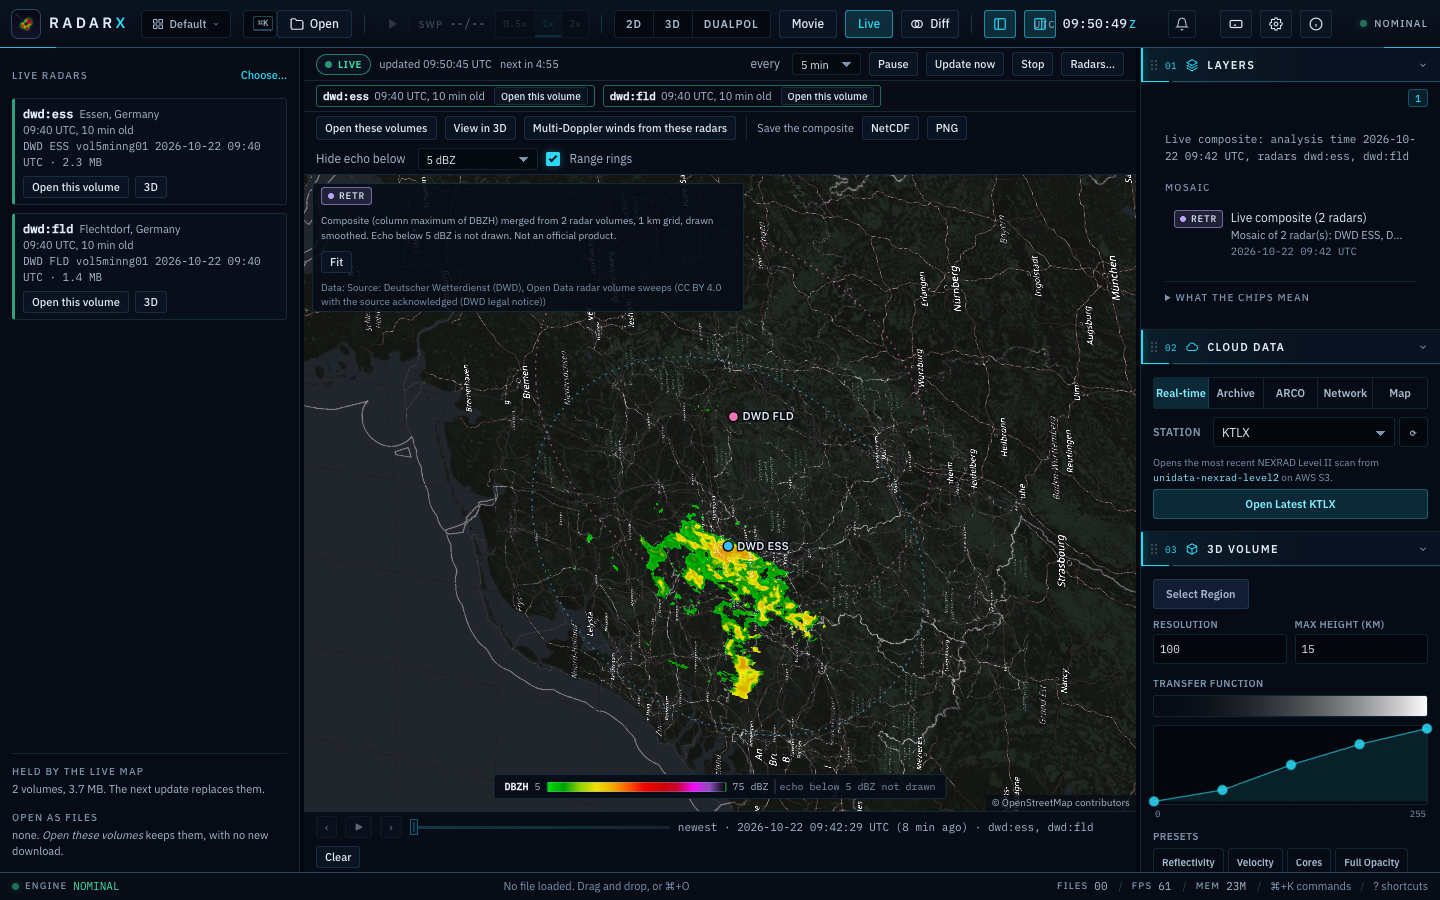
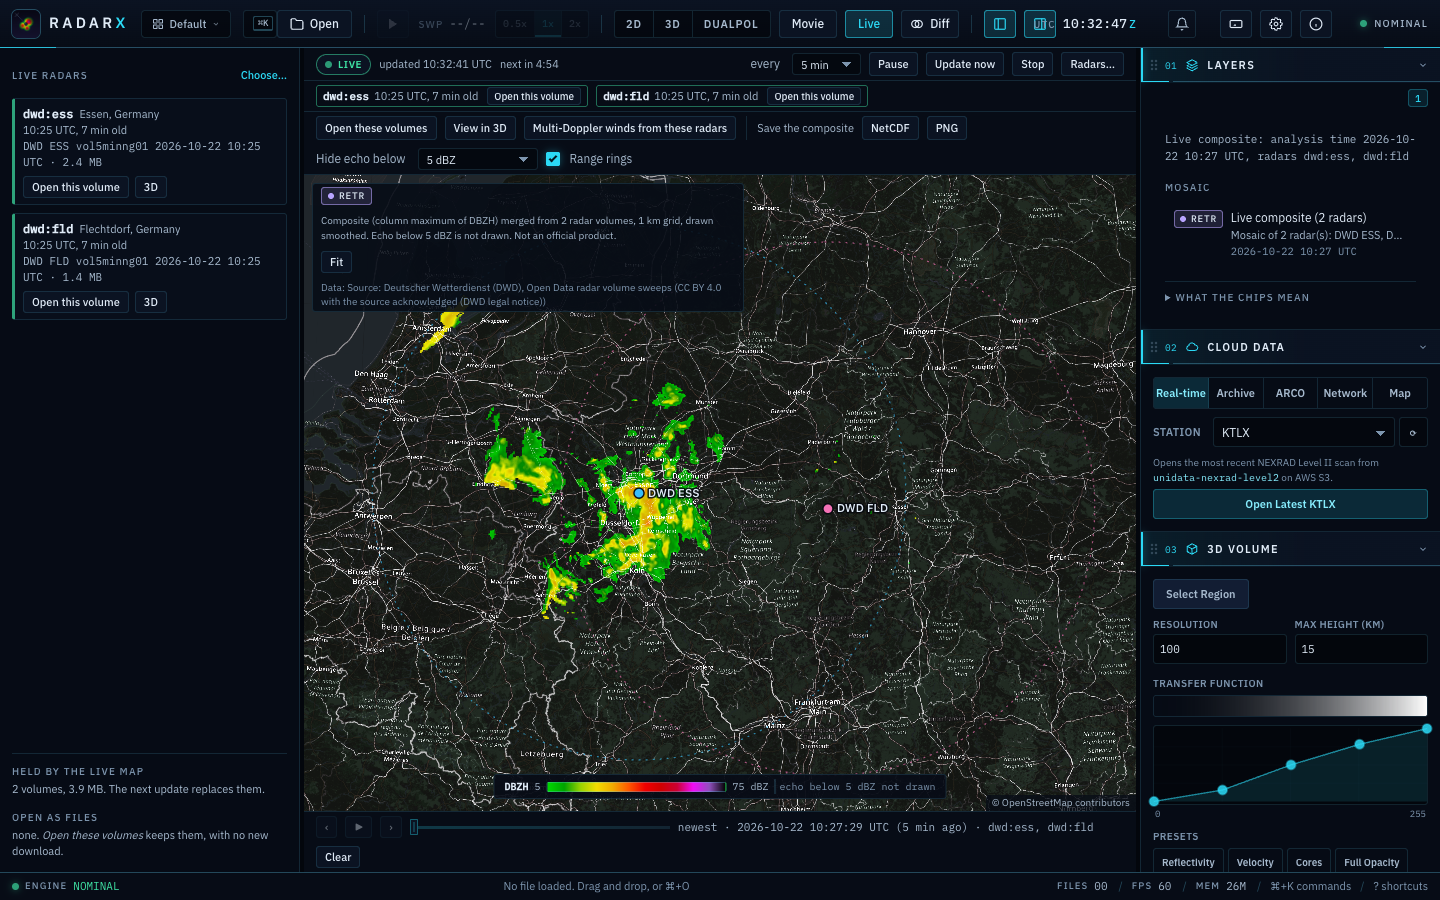
live map: centre the projection on the radars shown, never on a default over the USA
The map is an azimuthal projection, exact at its centre. The centre fell back to Oklahoma while the DWD radars' positions were still loading and was never moved, so a view of Germany, 8000 km away, was rotated by about 90 degrees and its place names read sideways. The centre now comes from the frame or the radars (null until known) and is moved when it is far from what is shown. live-map-dwd.png retaken from real DWD volumes.

diff --git a/src/lib/components/LiveMapView.svelte b/src/lib/components/LiveMapView.svelte
@@ -21,7 +21,7 @@
   import { RADAR_COLORS, mosaicLayer, mosaicResult, type MosaicLayer, type GeoBounds } from '../stores/mosaic';
   import { countdownText, hhmmss, radarStatusText, stepFrame, MIN_INTERVAL_MIN, MAX_INTERVAL_MIN } from '../utils/liveLogic';
   import {
-    FLOOR_CHOICES, footprintBounds, compositeLabel, legendAtFloor, floorText, multiDopplerBlocked, engineFloor,
+    FLOOR_CHOICES, footprintBounds, mapCentre, anchorStale, compositeLabel, legendAtFloor, floorText, multiDopplerBlocked, engineFloor,
   } from '../utils/liveDisplay';
   import { latLonToPixel } from '../utils/geoProjection';
   import PanZoomMap from './PanZoomMap.svelte';
@@ -57,16 +57,18 @@
   const byId = $derived($liveSites);
   const radarSites = $derived(radarIds.map((id) => byId.get(id)).filter((x): x is NonNullable<typeof x> => !!x));
 
-  // Map centre: the frame's grid centre, else the centroid of the default radars, else the US.
-  const centre = $derived.by(() => {
-    if (frame) return { lat: (frame.grid.north + frame.grid.south) / 2, lon: (frame.grid.east + frame.grid.west) / 2 };
-    const sites = radarIds.map((id) => byId.get(id)).filter((x): x is NonNullable<typeof x> => !!x);
-    if (sites.length) return { lat: sites.reduce((a, x) => a + x.lat, 0) / sites.length, lon: sites.reduce((a, x) => a + x.lon, 0) / sites.length };
-    return { lat: 39, lon: -97 };
-  });
-  // The projection is anchored once per session on the first centre so panning stays consistent.
+  // Map centre: the middle of the composite, else of the radars; null while that is not known (the
+  // positions of the DWD radars come from the catalogue a moment after the view opens). Never a
+  // default place: the projection is only right near its centre (see mapCentre).
+  const centre = $derived(mapCentre(frame ? frameBounds(frame) : null, radarSites));
+  // The projection is centred once and kept (so panning stays consistent), and moved only when what
+  // is shown is no longer near it (another set of radars, a first frame far from the guess).
   let anchor = $state<{ lat: number; lon: number } | null>(null);
-  $effect(() => { if (!anchor && (frame || radarIds.length)) anchor = centre; });
+  $effect(() => {
+    const c = centre;
+    if (forecastOn || !c) return;
+    if (anchorStale(anchor, c)) anchor = c;
+  });
 
   // A nowcast made from these frames is drawn here instead of the observed composite, with its own
   // FORECAST label and lead slider (the observed frame is back with "Observations").
@@ -103,7 +105,6 @@
   });
 
   let fit = $state<GeoBounds | null>(null);
-  let fittedOnce = false;
   // A forecast drawn here (from a gridded file, or for a place the live map is not on) brings its own
   // map position, and the view fits it once per nowcast.
   let fittedForecast = '';
@@ -118,26 +119,21 @@
   });
   // Position the map on the radars' footprint (their range discs) as soon as the radars are known,
   // and on the composite's own box once the first frame of the session exists (not on every update:
-  // the user may have panned). A different set of radars starts again, with a new map centre.
-  let fitKey = '';
+  // the user may have panned). A different set of radars, or a moved projection centre, starts again.
+  let fitState = { key: '', anchor: '', stage: '' };
   const sessionKey = $derived((s.running ? s.stations : $liveRadars).join(','));
   $effect(() => {
     const key = sessionKey;
-    if (forecastOn || !key) return;
+    const a = anchor;
     const f = frame;
-    if (!fitKey.startsWith(`${key}|`)) {
-      fitKey = `${key}|sites`;
-      fittedOnce = false;
-      if (anchor) anchor = centre;
-    }
-    if (f && !fittedOnce) {
-      fittedOnce = true;
-      fitKey = `${key}|frame`;
-      fit = frameBounds(f);
-    } else if (!f && !fittedOnce && fitKey === `${key}|sites`) {
-      const b = footprintBounds(radarSites, LIVE_RING_KM);
-      if (b) fit = b;
-    }
+    if (forecastOn || !key || !a) return;
+    const aKey = `${a.lat.toFixed(2)},${a.lon.toFixed(2)}`;
+    const stage = f ? 'frame' : 'sites';
+    const same = fitState.key === key && fitState.anchor === aKey;
+    if (same && (fitState.stage === 'frame' || fitState.stage === stage)) return;
+    fitState = { key, anchor: aKey, stage };
+    const bounds = f ? frameBounds(f) : footprintBounds(radarSites, LIVE_RING_KM);
+    if (bounds) fit = bounds;
   });
   function frameBounds(f: LiveFrame): GeoBounds {
     return { west: f.grid.west, south: f.grid.south, east: f.grid.east, north: f.grid.north };

diff --git a/src/lib/utils/liveDisplay.ts b/src/lib/utils/liveDisplay.ts
@@ -132,6 +132,47 @@ export function footprintBounds(sites: readonly { lat: number; lon: number }[], 
   };
 }
 
+// ── What the map is centred on ─────────────────────────────────────────────────────────────
+
+export interface LatLon {
+  lat: number;
+  lon: number;
+}
+
+/**
+ * The point the map's projection is centred on: the middle of the composite's box once there is a
+ * frame, else the middle of the radars (longitudes averaged on the circle, so radars either side of
+ * the date line do not land on the far side of the world), and null while nothing is known.
+ *
+ * It is never a default place: the map is an azimuthal projection, which is exact at its centre and
+ * turns and stretches everything far from it. Centred on a default over the USA, a view of Germany
+ * 8000 km away is rotated by about 90 degrees and its place names read sideways.
+ */
+export function mapCentre(frame: Bounds | null, sites: readonly LatLon[]): LatLon | null {
+  if (frame) return { lat: (frame.north + frame.south) / 2, lon: (frame.east + frame.west) / 2 };
+  if (sites.length === 0) return null;
+  const lat = sites.reduce((n, s) => n + s.lat, 0) / sites.length;
+  const x = sites.reduce((n, s) => n + Math.cos((s.lon * Math.PI) / 180), 0);
+  const y = sites.reduce((n, s) => n + Math.sin((s.lon * Math.PI) / 180), 0);
+  return { lat, lon: (Math.atan2(y, x) * 180) / Math.PI };
+}
+
+/** Great-circle distance in km. */
+export function distanceKm(a: LatLon, b: LatLon): number {
+  const r = Math.PI / 180;
+  const h = Math.sin(((b.lat - a.lat) * r) / 2) ** 2 + Math.cos(a.lat * r) * Math.cos(b.lat * r) * Math.sin(((b.lon - a.lon) * r) / 2) ** 2;
+  return 2 * 6371.0088 * Math.asin(Math.min(1, Math.sqrt(h)));
+}
+
+/** How far the projection's centre may be from what is shown before it is moved (km). */
+export const MAX_ANCHOR_OFFSET_KM = 600;
+
+/** True when the projection's centre has to be moved to `centre` (nothing is anchored yet, or it is too far). */
+export function anchorStale(anchor: LatLon | null, centre: LatLon | null): boolean {
+  if (!centre) return false;
+  return anchor === null || distanceKm(anchor, centre) > MAX_ANCHOR_OFFSET_KM;
+}
+
 // ── Opening the held volumes ────────────────────────────────────────────────────────────────
 
 /** One volume of a `live_volumes_opened` reply. */

diff --git a/docs/changes/live-map-dwd.md b/docs/changes/live-map-dwd.md
@@ -1,2 +1,3 @@
 - **European radars on the live map:** the live map now works with two networks, NEXRAD (USA) and DWD (the 17 German radars, from the German Weather Service's Open Data, CC BY 4.0). Choose either in *Radars...* (a map switch between the two, and a search that also lists radars of other networks with the reason they are not live), and mix them if you like. The dialogs name the right server (`opendata.dwd.de` for DWD) and the exact sizes (a DWD volume is about 1.5 to 2.5 MB, but each update reads two folder indexes of about 2.1 MB per DWD radar), and the credit and licence travel into the label on the map, the Layers panel and the saved NetCDF and PNG. **Set as default radar** on the radar network map now works for DWD radars, and for the others says why it cannot. Each radar's ring is its own range. Opened DWD volumes are held in memory and use no extra disk. {doc}`LIVE` says exactly which networks are live and why the others (EUMETNET OPERA, FMI, KNMI, DMI, SMHI, Météo-France, South Africa) are not yet.
+- **The live map of far-away radars is the right way up:** the map is centred on the radars it shows, not on a default over the USA, so a view of Germany (or Alaska, Hawaii) no longer comes out turned sideways with its place names reading vertically.
 - **The US airport radars (TDWR) work on the live map too:** their volumes are in the same public bucket as NEXRAD's, so the 47 TDWR radars can be found by search in *Radars...* and set as default radars from the radar network map.
